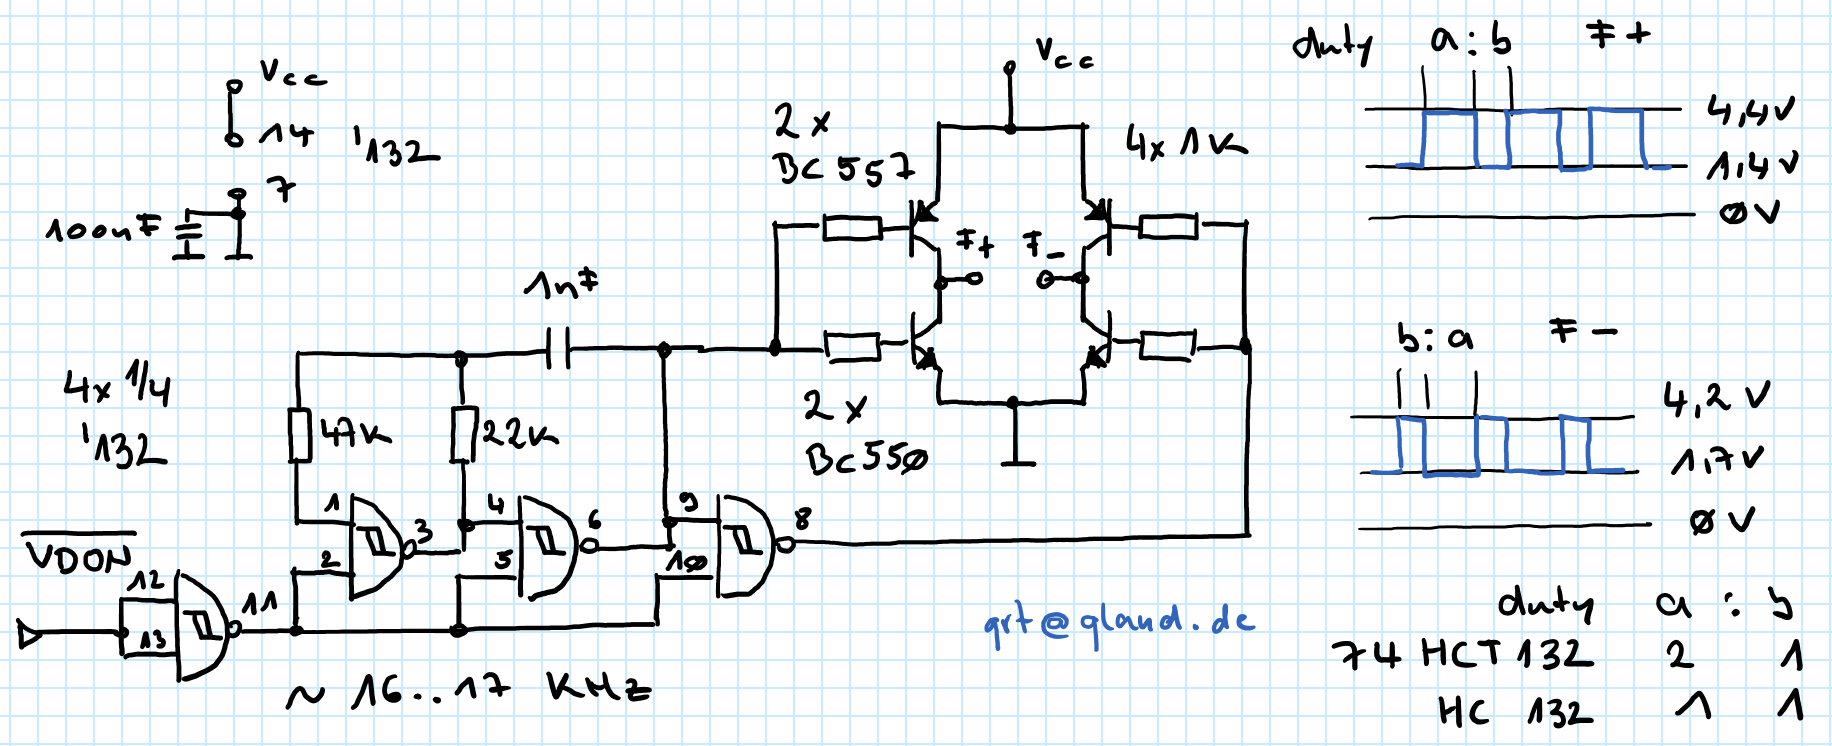
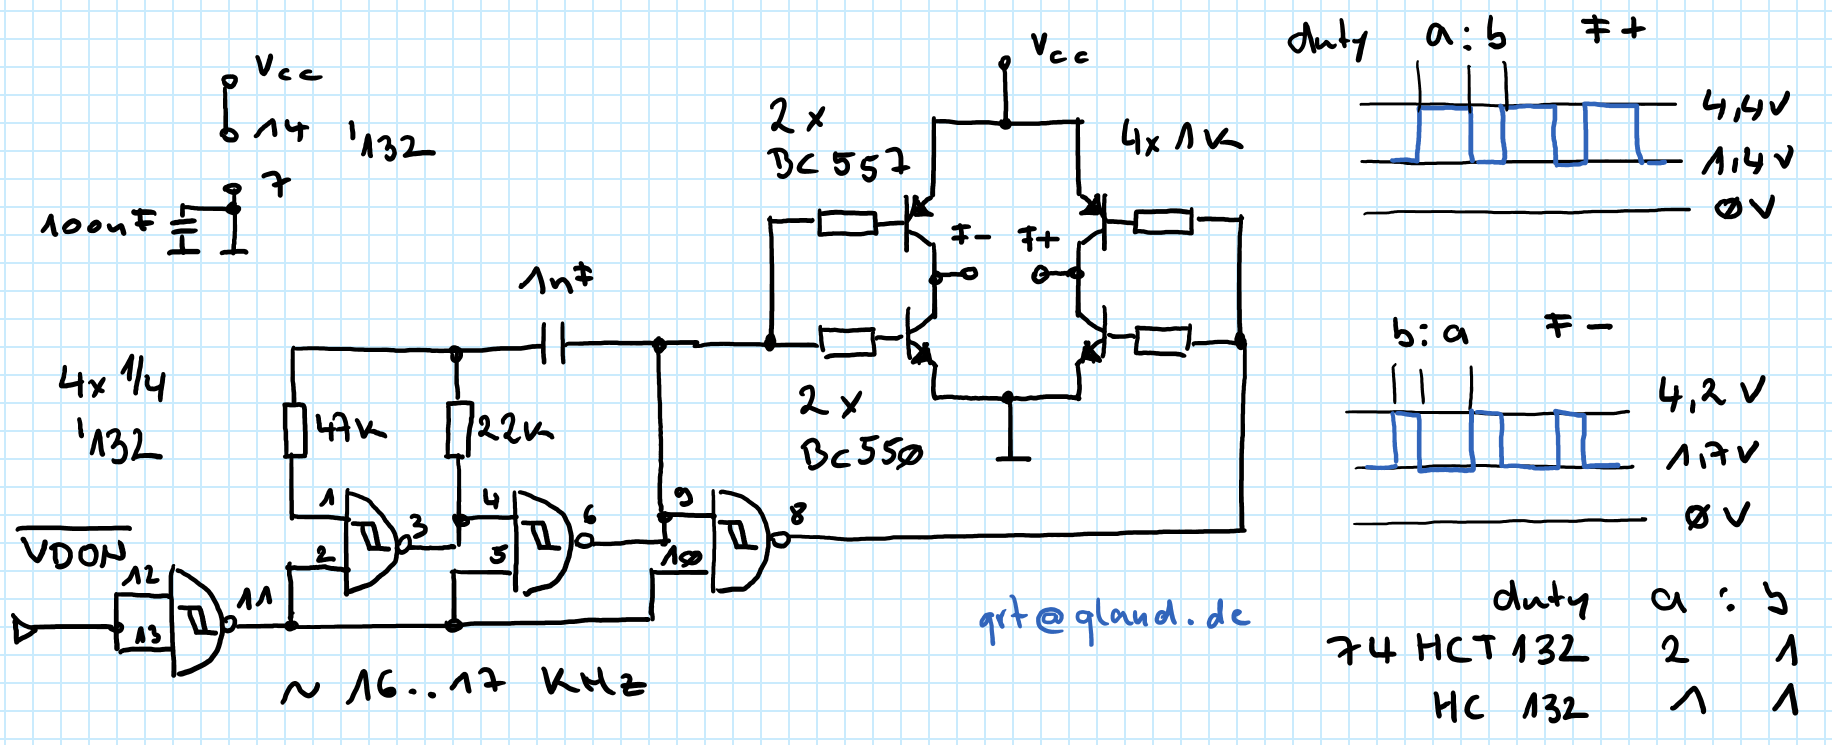
AC filament supply polarity correction

diff --git a/README.md b/README.md
@@ -42,7 +42,10 @@ initial version
 __V0.6__  
 AC filament supply  
 __V0.7__  
-AC filament supply _VDON
+AC filament supply _VDON  
+__V0.8__  
+AC filament supply polarity correction
+
 
 ## Links
 http://www.lapis-semi.com/en/data/datasheet-file_db/display/FEDL9289-01.pdf  
